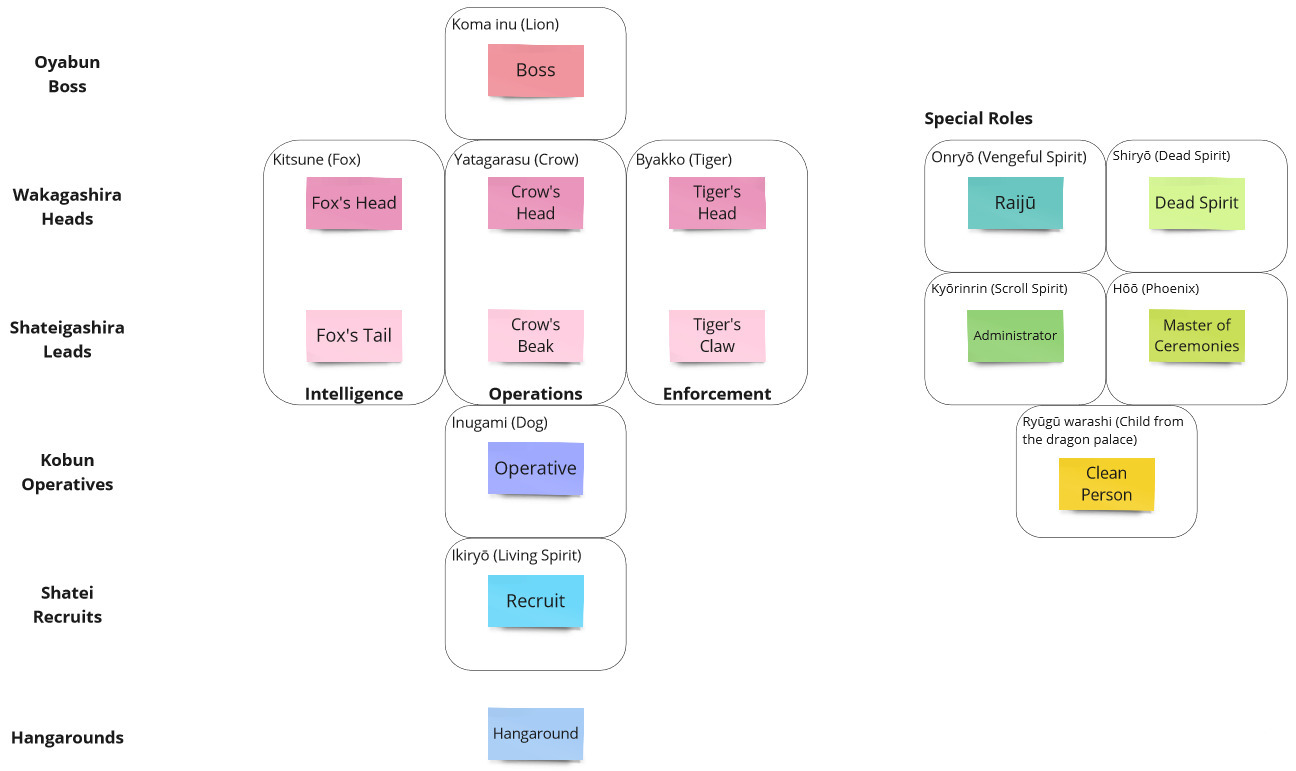
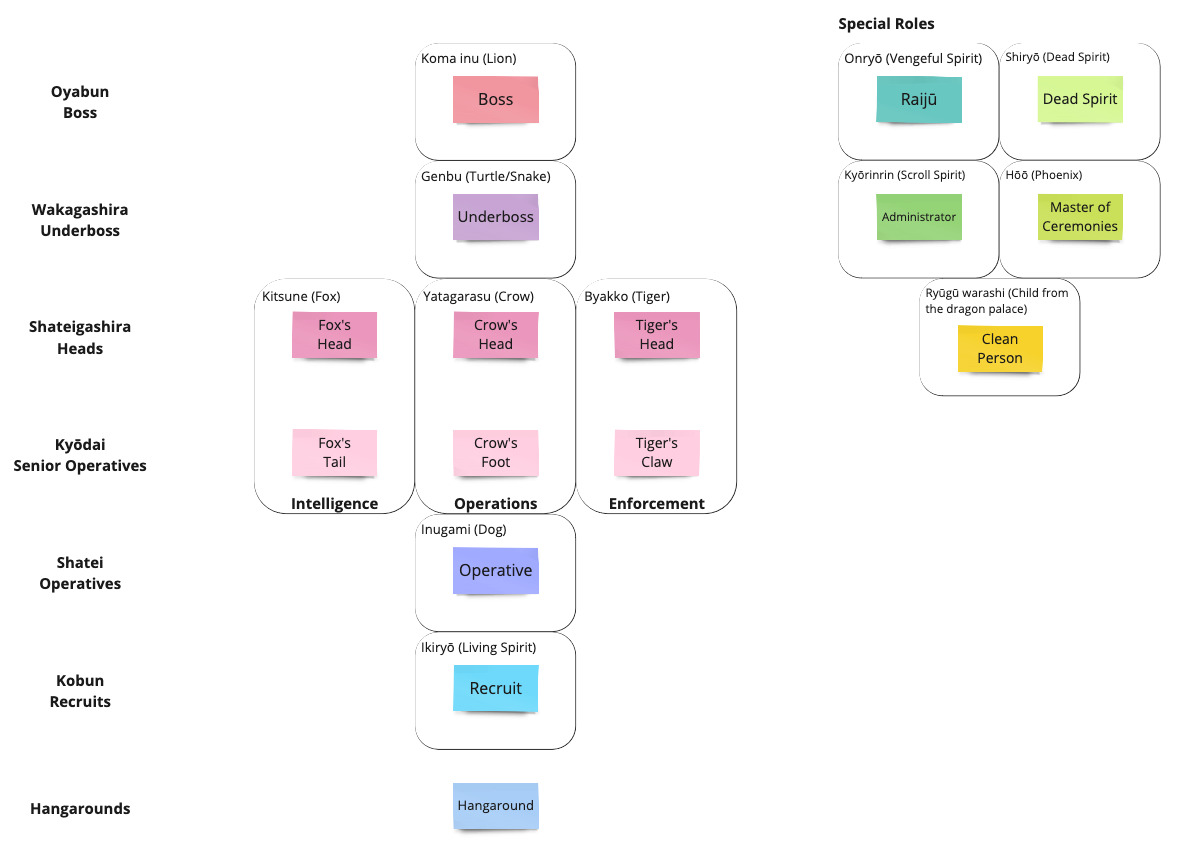
Update hierarchy and guardians

diff --git a/src/components/Lore/GuardiansListing.tsx b/src/components/Lore/GuardiansListing.tsx
@@ -1,6 +1,7 @@
 import './Lore.scss';
 import Header from '../Common/Header';
 import komainu from '../../assets/images/spirits/komainu.jpg';
+import genbu from '../../assets/images/spirits/genbu.jpg';
 import kitsune from '../../assets/images/spirits/kitsune.jpg';
 import yatagarasu from '../../assets/images/spirits/yatagarasu.jpg';
 import houou from '../../assets/images/spirits/houou.jpg';
@@ -40,8 +41,21 @@ function GuardiansListing() {
         </div>
       </div>
       <div className='Guardian'>
+        <Header id="genbu" element={<p>Genbu (<span className='Kanji'>玄武</span>)</p>} decorated />
+        <div className='Description'>
+          <p>
+            <a href='https://yokai.com/genbu/' target='_blank' rel="noreferrer">Genbu (玄武)</a>, the Black Warrior of the North, is depicted as a turtle-snake chimera,
+            or a tortoise intertwined with a snake. He is one of the Four Symbols (Seiryu, Suzaku, Genbu, and Byakko), each associated with a cardinal direction. Genbu
+            is the protector of the North, controls water and the cold, and represents the virtue of knowledge. At the time, it was believed that all turtles were female
+            and had to mate with snakes to reproduce; the intertwining of the two symbols became a symbol of long life and fertility, and of the balance of yin and yang.
+          </p>
+          <img src={genbu} alt='Genbu' />
+        </div>
+      </div>
+      <div className='Guardian'>
         <Header id="kitsune" element={<p>Kitsune (<span className='Kanji'>狐</span>)</p>} decorated />
         <div className='Description'>
+          <img src={kitsune} alt='Kitsune' />
           <p>
             <a href='https://yokai.com/kitsune/' target='_blank' rel="noreferrer">Kitsune (狐)</a> are fox spirits known for their shapeshifting abilities and intelligence.
             They have the ability to change appearance at will, often taking on the form of beautiful women or other animals, and using it for either benevolent or
@@ -49,83 +63,81 @@ function GuardiansListing() {
             categorized by the number of tails they possess, which indicates their age and power. A one-tailed Kitsune is relatively young and less powerful, while a
             nine-tailed Kitsune is considered ancient and extremely powerful.
           </p>
-          <img src={kitsune} alt='Kitsune' />
         </div>
       </div>
       <div className='Guardian'>
         <Header id="yatagarasu" element={<p>Yatagarasu (<span className='Kanji'>八咫烏</span>)</p>} decorated />
         <div className='Description'>
-          <img src={yatagarasu} alt='Yatagarasu' />
           <p>
             <a href='https://yokai.com/yatagarasu/' target='_blank' rel="noreferrer">Yatagarasu (八咫烏)</a> is a crow spirit characterized by its three legs, which symbolize the
             sun and its movement across the sky. Yatagarasu is closely tied to the sun and is associated with the sun goddess Amaterasu who it guides when she withdraws into a cave,
             symbolizing the return of light after a period of darkness. Yatagarasu is also depicted as a divine guide said to appear during times of crisis or when individuals or
             communities are in need of guidance. The crow is believed to lead people in the right direction and help them find their way.
           </p>
+          <img src={yatagarasu} alt='Yatagarasu' />
         </div>
       </div>
       <div className='Guardian'>
         <Header id="byakko" element={<p>Byakko (<span className='Kanji'>白虎</span>)</p>} decorated />
         <div className='Description'>
+          <img src={byakko} alt='Byakko' />
           <p>
             <a href='https://yokai.com/byakko-tiger/' target='_blank' rel="noreferrer">Byakko (白虎)</a> the White Tiger is depicted as a majestic and powerful tiger with gleaming white
             fur and a commanding presence. He is one of the Four Symbols (Seiryu, Suzaku, Genbu, and Byakko), each associated with a cardinal direction. Its white color symbolizes purity,
             protection, and the west, which is the cardinal direction it represents. Byakko is considered a guardian and protector, bound to safeguard against evil forces and negative influences.
             Its presence brings balance and harmony to the west and to the land in general.
           </p>
-          <img src={byakko} alt='Byakko' />
         </div>
       </div>
       <div className='Guardian'>
         <Header id="inugami" element={<p>Inugami (<span className='Kanji'>犬神</span>)</p>} decorated />
         <div className='Description'>
-          <img src={inugami} alt='Inugami' />
           <p>
             <a href='https://yokai.com/inugami/' target='_blank' rel="noreferrer">Inugami (犬神)</a> are spirits originating from dogs and their loyalty to their master. They look identical to an ordinary
             dog in order to blend in, however, their true form is that of a desiccated, mummified dog's head, often dressed up in ceremonial trappings. Inugamis are created from the manipulation
             of dog spirits through occult rituals, which involve capturing and confining a dog, and subjecting it to cruelty or death to bind its spirit to its conjurer. Inugamis are historically
             used for curses, vengeance, and causing harm to enemies, and are bound to carry out their conjurer's wishes.
           </p>
+          <img src={inugami} alt='Inugami' />
         </div>
       </div>
       <div className='Guardian'>
         <Header id="raijuu" element={<p>Raiju (<span className='Kanji'>雷獣</span>)</p>} decorated />
         <div className='Description'>
+          <img src={raiju} alt='Raijū' />
           <p>
             <a href='https://yokai.com/raijuu/' target='_blank' rel="noreferrer">Raijū (雷獣)</a> are wild beasts depicted as wolves with bright blue claws and a body surrounded by electrical sparks.
             They are associated with storms, and have the ability to generate and control lightning. Raijū live in the sky and ride down lightning bolts to earth when they are needed. Whenever thunder
             strikes, a Raijū was sent to achieve a dark deed. They take great pleasure in causing chaos and mayhem wherever they land, and will stop at nothing to cause mass destruction.
           </p>
-          <img src={raiju} alt='Raijū' />
         </div>
       </div>
       <div className='Guardian'>
         <Header id="houou" element={<p>Hoo (<span className='Kanji'>鳳凰</span>)</p>} decorated />
         <div className='Description'>
-          <img src={houou} alt='Houou' />
           <p>
             <a href='https://yokai.com/houou/' target='_blank' rel="noreferrer">Hōō (鳳凰)</a> are majestic phoenix spirits with colourful plumage, typically portrayed with brilliant
             red feathers on their heads, a white bodies, and green tail feathers. Hōō are a symbol of rebirth, immortality, and renewal, and their ability to rise from their own ashes
             after death represents the cyclical nature of life. As such, Hōō are associated with the concept of eternal life and the renewal of hope. Hōō are creatures of peace and
             never cause harm to other living things. It is said that when a Hōō flies, the wind stops, dust settles, and birds and insects grow quiet.
           </p>
+          <img src={houou} alt='Houou' />
         </div>
       </div>
       <div className='Guardian'>
         <Header id="kyourinrin" element={<p>Kyorinrin (<span className='Kanji'>経凛々</span>)</p>} decorated />
         <div className='Description'>
+          <img src={kyourinrin} alt='Kyōrinrin' />
           <p>
             <a href='https://yokai.com/kyourinrin/' target='_blank' rel="noreferrer">Kyōrinrin (経凛々)</a> are spirits of knowledge formed from ancient scrolls, books, and scriptures which have been left
             unstudied by their owners and gathering dust. They are extravagant; decorating themselves with the most ornate volumes and scrolls, wearing them like a kimono. A scroll with tassels becomes the
             headpiece, and they develop bird-like beaks and long, extendible arms.
           </p>
-          <img src={kyourinrin} alt='Kyōrinrin' />
         </div>
       </div>
       <div className='Guardian'>
         <Header id="ryuuguuwarashi" element={<p>Ryugu warashi (<span className='Kanji'>竜宮童子</span>)</p>} decorated />
         <div className='Description'>
-          <img src={ryuuguuwarashi} alt='Ryūgū warashi' />
           <p>
             <a href='https://yokai.com/ryuuguuwarashi/' target='_blank' rel="noreferrer">Ryūgū warashi (竜宮童子)</a> are water-dwelling spirits associated with the underwater palace of Ryūgū-jō (The Dragon Palace),
             which is located beneath the sea, and is ruled by the sea deity Ryūjin. The Ryūgū warashi are the childlike inhabitants of this opulent palace filled with treasures. Ryūgū warashi are given like gifts
@@ -134,6 +146,7 @@ function GuardiansListing() {
             eventually becomes more than their parents can stand. Inevitably, Ryūgū warashi are forced to bathe or are kicked out by their human parents, after which they return to the sea, and the family loses all
             of the wealth the Ryūgū warashi brought with it.
           </p>
+          <img src={ryuuguuwarashi} alt='Ryūgū warashi' />
         </div>
       </div>
     </div>

diff --git a/src/components/InformationCenter/Hierarchy/Hierarchy.tsx b/src/components/InformationCenter/Hierarchy/Hierarchy.tsx
@@ -36,16 +36,31 @@ function Hierarchy() {
             </div>
           </div>
           <div className='Division'>
-            <h1>Wakagashira (Heads)</h1>
+            <h1>Wakagashira (Underboss)</h1>
             <div className='Role'>
               <p>
-                Wakagashira are high-ranking members who are second-in-command to the Oyabun. This role involves significant authority and responsibility, as they
+                The Wakagashira acts as a second-in-command to the Oyabuns. He takes the role of head of the family when both Oyabuns are not able to be present, or
+                are otherwise occupied with their duties. The Wakagashira will help run day-to-day operations while the Oyabuns run big picture items, and also has
+                a counsel role within the leadership where they are to advise the Oyabuns on all matters related to the family's operations.
+              </p>
+              <p>
+                The Wakagashira is under the protection of <a href='/information-center/lore?active=Guardians#genbu' target='_blank' rel="noreferrer">Genbu (玄武)</a>,
+                a turtle-snake chimera associated with the virtue of knowledge. The intertwining of the turtle and snake symbolize the balance of yin and yang for
+                which Genbu was a protector of.
+              </p>
+            </div>
+          </div>
+          <div className='Division'>
+            <h1>Shateigashira (Heads)</h1>
+            <div className='Role'>
+              <p>
+                Shateigashira are high-ranking members who are second-in-command to the Oyabun. This role involves significant authority and responsibility, as they
                 are tasked with assisting the Oyabun in leading the family. They may be in charge of day-to-day operations, managing lower-ranking members, and
-                overseeing various activities. The Wakagashira often acts as a bridge between the Oyabun and the other members, helping to maintain discipline,
+                overseeing various activities. The Shateigashira often acts as a bridge between the Oyabun and the other members, helping to maintain discipline,
                 enforce the family's rules, and mediate disputes.
               </p>
               <p>
-                Wakagashira are under the protection of various spirits depending on their specific role within the family.
+                Shateigashira are under the protection of various spirits depending on their specific role within the family.
               </p>
             </div>
             <div className='Role'>
@@ -91,63 +106,44 @@ function Hierarchy() {
             </div>
           </div>
           <div className='Division'>
-            <h1>Shateigashira (Officers)</h1>
+            <h1>Kyōdai (Senior Operative)</h1>
             <div className='Role'>
-              <h2>Intelligence Officer (Fox's Tail)</h2>
               <p>
-                Intelligence Officers are second to the Intelligence Heads. They oversee more or less the same responsibilities but are not directly included in
-                high-ranking member meetings, instead focusing on managing the link between the lower and higher ranks in the hierarchy.
+                Kyōdai are members that have stood the test of time and proved their resolve and usefulness to the family. Kyōdai are important intermediary figures
+                in the hierarchy and act as a link between junior members and higher-ranking figures, helping to facilitate the smooth running of each branch of the
+                family. Kyōdai will specialize in one area and help the Wakagashira in the execution of tasks related to that branch, also helping ensure everything
+                runs smoothly.
               </p>
               <p>
-                Intelligence Officers are also under the protection of the <a href='/information-center/lore?active=Guardians#kitsune' target='_blank' rel="noreferrer">Kitsune (狐)</a>.
-              </p>
-            </div>
-            <div className='Role'>
-              <h2>Operations Officer (Crow's Beak)</h2>
-              <p>
-                Operations Officers are second to the Operations Heads. They oversee more or less the same responsibilities but are not directly included in
-                high-ranking member meetings, instead focusing on managing the link between the lower and higher ranks in the hierarchy.
-              </p>
-              <p>
-                Operations Officers are also under the protection of <a href='/information-center/lore?active=Guardians#yatagarasu' target='_blank' rel="noreferrer">Yatagarasu (八咫烏)</a>.
-              </p>
-            </div>
-            <div className='Role'>
-              <h2>Enforcement Officer (Tiger's Claw)</h2>
-              <p>
-                Enforcement Officers are second to the Enforcement Heads. They oversee more or less the same responsibilities but are not directly included
-                in high-ranking member meetings, instead focusing on managing the link between the lower and higher ranks in the hierarchy.
-              </p>
-              <p>
-                Enforcement Officers are also under the protection of <a href='/information-center/lore?active=Guardians#byakko' target='_blank' rel="noreferrer">Byakko (白虎)</a>.
+                Kyōdai are under the protection of the same guardian as the Head they are tasked with assisting.
               </p>
             </div>
           </div>
           <div className='Division'>
-            <h1>Kobun (Operatives)</h1>
+            <h1>Shatei (Operatives)</h1>
             <div className='Role'>
               <p>
-                Kobun are low-ranking members who play a crucial role in the day-to-day operations of the family. These individuals are often the backbone
+                Shatei are low-ranking members who play a crucial role in the day-to-day operations of the family. These individuals are often the backbone
                 of the group, and responsible for carrying out various tasks that contribute to the organization's overall objectives such as heists, debt
-                collection, acts of violence, etc. While they hold relatively low positions in the hierarchy, Kobun are essential for operations.
+                collection, acts of violence, etc. While they hold relatively low positions in the hierarchy, Shatei are essential for operations.
               </p>
               <p>
-                Kobun are under the protection of <a href='/information-center/lore?active=Guardians#inugami' target='_blank' rel="noreferrer">Inugami (犬神)</a>,
+                Shatei are under the protection of <a href='/information-center/lore?active=Guardians#inugami' target='_blank' rel="noreferrer">Inugami (犬神)</a>,
                 a dog spirit said to bring protection and good fortune, but also capable of bringing vengeance and destruction.
               </p>
             </div>
           </div>
           <div className='Division'>
-            <h1>Shatei (Recruits)</h1>
+            <h1>Kobun (Recruits)</h1>
             <div className='Role'>
               <p>
-                Shatei are apprentices in the early stages of their career. The role of Shatei is akin to that of a junior member. They are still learning
+                Kobun are apprentices in the early stages of their career. The role of Kobun is akin to that of a junior member. They are still learning
                 the ropes and working their way up the organization's hierarchy and are often responsible for performing various tasks and errands for
                 higher-ranking members. These tasks may include running errands, handling minor criminal activities, and generally providing support to their
                 superiors.
               </p>
               <p>
-                Shatei are not under the protection of any spirit as they are not blooded in members of the family. They are referred to
+                Kobun are not under the protection of any spirit as they are not blooded in members of the family. They are referred to
                 as <a href='/information-center/lore?active=Spirits#ikiryou' target='_blank' rel="noreferrer">Ikiryō (生霊)</a>, or living spirits, as their
                 connection between their body and spirit is still alive. That connection is severed as part of the blood-in process.
               </p>
@@ -193,7 +189,7 @@ function Hierarchy() {
                 promotions, blood oaths, and other important events.
               </p>
               <p>
-                Ceremonies Heads are also refered to as <a href='/information-center/lore?active=Guardians#houou' target='_blank' rel="noreferrer">Hōō (鳳凰)</a>,
+                Ceremonies Heads are also referred to as <a href='/information-center/lore?active=Guardians#houou' target='_blank' rel="noreferrer">Hōō (鳳凰)</a>,
                 a phoenix spirit with immense cultural significance that symbolizes beauty, change, and harmony.
               </p>
             </div>
